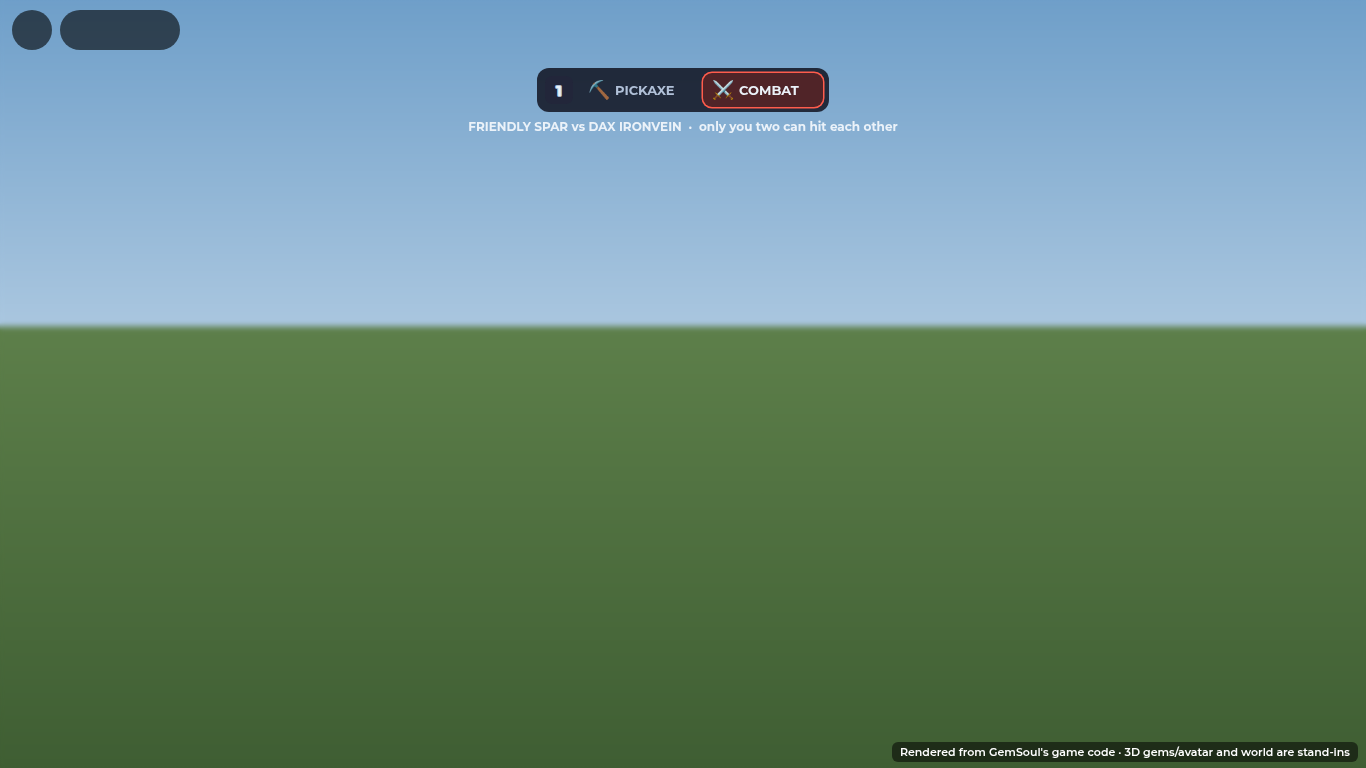
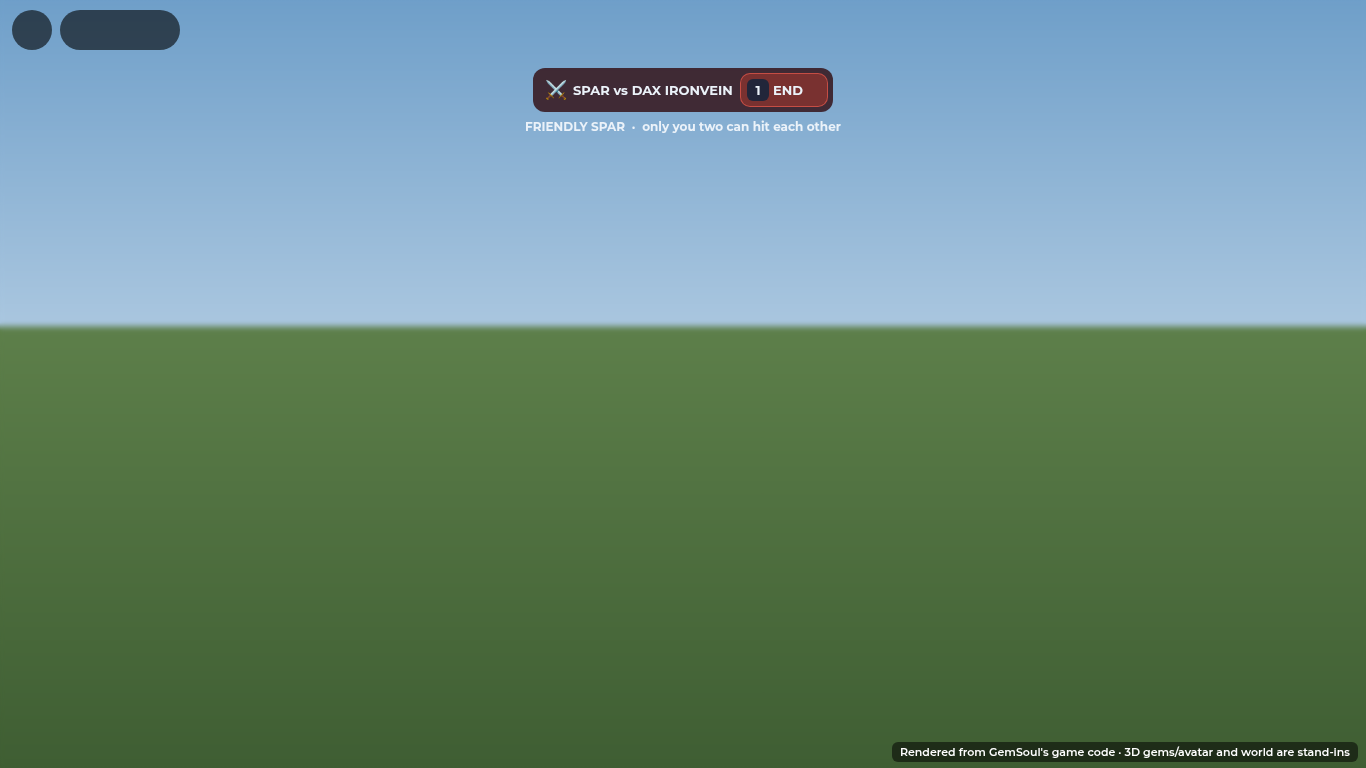
Lobby spar: drop the pickaxe/combat toggle, show a bar only mid-spar
With spars asked for and accepted, the kit comes out on its own, so the
PICKAXE | COMBAT toggle in the lobby did nothing. It's gone. While you
spar, a bar at the top names your partner, with END (1, or a tap on a
phone). 1 still asks the nearest free player when you're not sparring.

Claude-Session: https://claude.ai/code/session_01M9AaiFqQ2dWL5tTu8tuKaL

Changed region(s): [[0.3382, 0.0625, 0.6457, 0.1875]]

diff --git a/docs/friendly-sparring.md b/docs/friendly-sparring.md
@@ -5,8 +5,8 @@ There are two ways to ask:
 
 - **Press Z** ("Ask to spar") over the player. On a gamepad it's Y; on a
   phone, tap the prompt.
-- **Press 1** to ask the nearest player within about 15 studs. On a gamepad
-  it's D-pad up; on a phone, tap the kit bar.
+- **Press 1** to ask the nearest free player within about 15 studs. On a
+  gamepad it's D-pad up.
 
 If nobody is close enough, 1 tells you how to ask.
 
@@ -15,15 +15,12 @@ seconds:
 
 ![Spar request](friendly-sparring/request.png)
 
-When they accept, both of you swap your pickaxes for your combat kits. You
-fight exactly as in a duel: first-person view, every move, your gear and gems.
-The difference is that **only the two of you** can hit each other. Nobody else
-can hit either of you, or be hit by you, whether they're mining or in a spar
-of their own.
-
-The kit bar sits at the top center and shows which kit is in your hands:
-
-![Pickaxe out](friendly-sparring/lobby.png)
+When they accept, both of you swap your pickaxes for your combat kits. There's
+no switch to press: the kit comes out when a spar starts and goes away when it
+ends. You fight exactly as in a duel: first-person view, every move, your gear
+and gems. The difference is that **only the two of you** can hit each other.
+Nobody else can hit either of you, or be hit by you, whether they're mining or
+in a spar of their own.
 
 When the spar starts, you see your partner's name, with the sound of a
 blade being drawn:
@@ -31,8 +28,9 @@ blade being drawn:
 ![Spar starts](friendly-sparring/flash.png)
 
 While you spar, the lobby HUD, mining hint and Outpost prompts step aside, and
-the fight HUD takes over. For the first few seconds a line under the bar says
-who you're sparring with:
+the fight HUD takes over. A bar at the top center says who you're fighting,
+with END (the 1 key, or click it). For the first few seconds a line under it
+gives the rule:
 
 ![Sparring](friendly-sparring/fight.png)
 
@@ -73,8 +71,8 @@ hit or be hit. The player who landed the blow gets a banner, and anyone nearby
 
 ## Ending it
 
-Press **1** to end the spar. It ends for both of you, and your partner is
-told. You can't end it in the middle of an exchange: for 3 s after you're
+Press **1** (or END on the bar) to end the spar. It ends for both of you, and
+your partner is told. You can't end it in the middle of an exchange: for 3 s after you're
 hit, and while you're down, 1 answers *Still in the fight: you can stop in N s.*
 
 The spar also ends for both of you whenever it stops making sense for either:
@@ -95,7 +93,7 @@ back in third person. While your kit is out, Shift belongs to the fight
 Shift Lock behind the first-person view. That used to leave the mouse locked
 in the middle of the screen once the kit was away.
 
-On a phone the key cap is hidden and the bar is the button:
+On a phone the key cap is hidden and END is the button:
 
 ![Phone](friendly-sparring/phone.png)
 
@@ -112,7 +110,7 @@ it only ever locks onto your partner.
 | `CombatServer` | `canPvP` follows `Spar.canHit` for sparring players: partners only. A lethal blow asks `onSparLethal` first; a downed player's input is ignored. Sparring counts as equal ground (no tree perks), as in the Arena |
 | `OutpostServer` | The "Ask to spar" prompt (Z) on each visitor, beside Duel (G) and Party (F); no mining with the kit out, and no prompts on a sparring player |
 | `SocialUI` | The Accept / Decline card (`SparAsk`), taken down when the request is withdrawn (`SparAskOver`) or once you're sparring |
-| `src/client/Modules/SparKit.luau` | 1 / D-pad up (ask the nearest player, or end the spar), the kit bar, the flash when a spar starts or ends, the knocked-down overlay and fall, the KO banner and toast, the ⚔ badge |
+| `src/client/Modules/SparKit.luau` | 1 / D-pad up (ask the nearest player, or end the spar), the spar bar (only while sparring: your partner and END), the flash when a spar starts or ends, the knocked-down overlay and fall, the KO banner and toast, the ⚔ badge |
 | `Combat.client`, `TargetLock`, `BodyPoses`, `FighterSpacing`, `FightSpacing` | Treat a spar as a fight: first-person view and HUD, lock only onto your partner, face them, no jumping (Space is dodge) |
 
 Player attributes:
